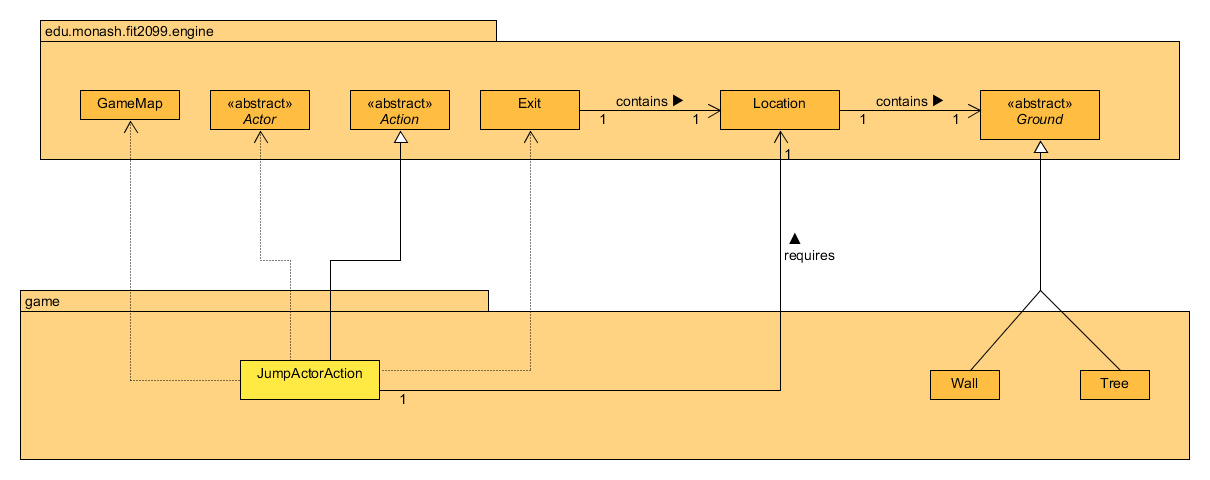
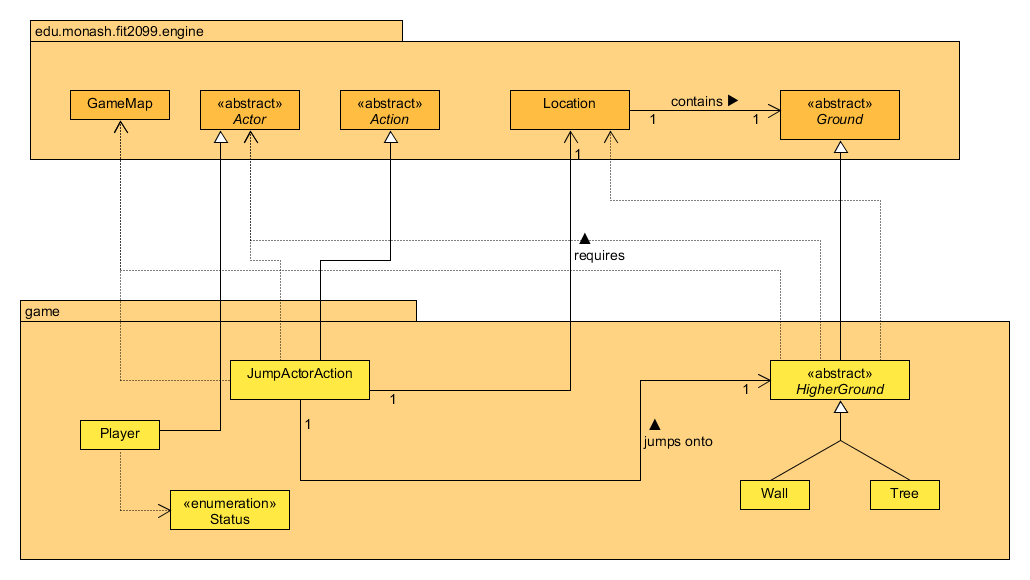
Updated REQ3 Class and Sequence Diagramas

diff --git a/design-docs/REQ2_DesignRationale.md b/design-docs/REQ2_DesignRationale.md
@@ -12,33 +12,45 @@ For reference, here are the class diagrams and sequence diagrams.
 
 ## Rationale
 
-My approach for this was to have the program check the Player's surroundings for high grounds
-and give the Player the option to jump to those high grounds. When the Player chooses to jump
-to the high ground, the program will generate a random probability and compare it to the 
-success rate of jumping to the specified high ground. If the generated probability is within
-the range of the success rate, the Player will successfully jump onto the high ground, otherwise
-the Player will attempt jump onto the high ground, fall back to his original location and take
-fall damage. I also had another approach for this which was to compare the generated probability
-to the success rate before the jump and allow Player to jump if the generated probability
-was in the range of the success rate, but this would have resulted in the Player taking damage 
-if the Player moved from high to low ground which was why I went with my current approach.
+My previous approach for this was to have the program check the Player's surroundings for high grounds
+and give the Player to option to jump to those high grounds. However, that approach resulted in a lot
+of messy and repeating code which would have heavily violated the DRY principle. 
+
+Thus, my new approach for this was to instead have the classes Tree and Wall extend a new class I 
+created called HigherGround so the program could identify both as one single higher ground entity
+which would negate the repetition of code. The rest of the approach is similar to my previous one 
+wherein when the Player chooses to jump to the high ground in the menu, the program will generate
+a random probability and compare it to the success rate of jumping to that specific high ground. If
+the generated probability is within the range of the success rate, the Player will successfully jump
+onto the high ground, otherwise the Player will fail to jump onto the high ground and take damage
+instead. All the comparisons and results occur in one method that is contained inside the HigherGround 
+class called jumpOn which is called in the JumpActorAction class.
   
 The JumpActorAction class is a class used to allow the Player to jump onto
 high grounds. It extends the Action abstract class so that it can override 
-the methods inside to allow the Player to perform a jump.  
+the methods inside to allow the Player to perform a jump.
   
-The JumpActorAction class should have 3 dependencies:  
-1. GameMap, which is used to always track where the Player's current 
-location is.   
-2. Actor, which contains many methods that the JumpActorAction class 
-can use to get and modify information about the Player.   
-3. Location, which is used to represent the location of the Player and 
-the types of ground (Wall and Tree).    
-  
-The Exit class will be used to retrieve all the directions that the Player
-can move to and the Location class will extend upon that and get the type
-of ground to verify that the ground is a Wall or a Tree that the Player
-can attempt to jump onto.  
+The JumpActorAction class should have 2 dependencies:  
+1. GameMap, which is used the jumpOn method to move the Player to the specified
+high ground.
+2. Actor, which contains many methods that the JumpActorAction class can use to get and modify 
+information about the Player.
+
+The Location class is used by the jumpOn method to move the Player to the high ground if
+the generated probability is within the range of the success rate.
+
+The HigherGround class is a base class extended by the Tree and Wall classes to allow the program to
+identify both classes as one single higher ground entity. It contains the jumpOn method which
+moves the Player to the specified high ground if the generated probability is within the range 
+of the success rate of jumping to the specified high ground. If the Player has the status TALL
+which is granted if the Player consumes a Super Mushroom, the Player will have 100% success rate
+of jumping and no fall damage.
+
+The Player is given a status called CAN_JUMP that is used by the Tree and Wall classes allow
+actors to jump onto them depending on whether the actors have the CAN_JUMP status.
+
+
+
 
 
 
